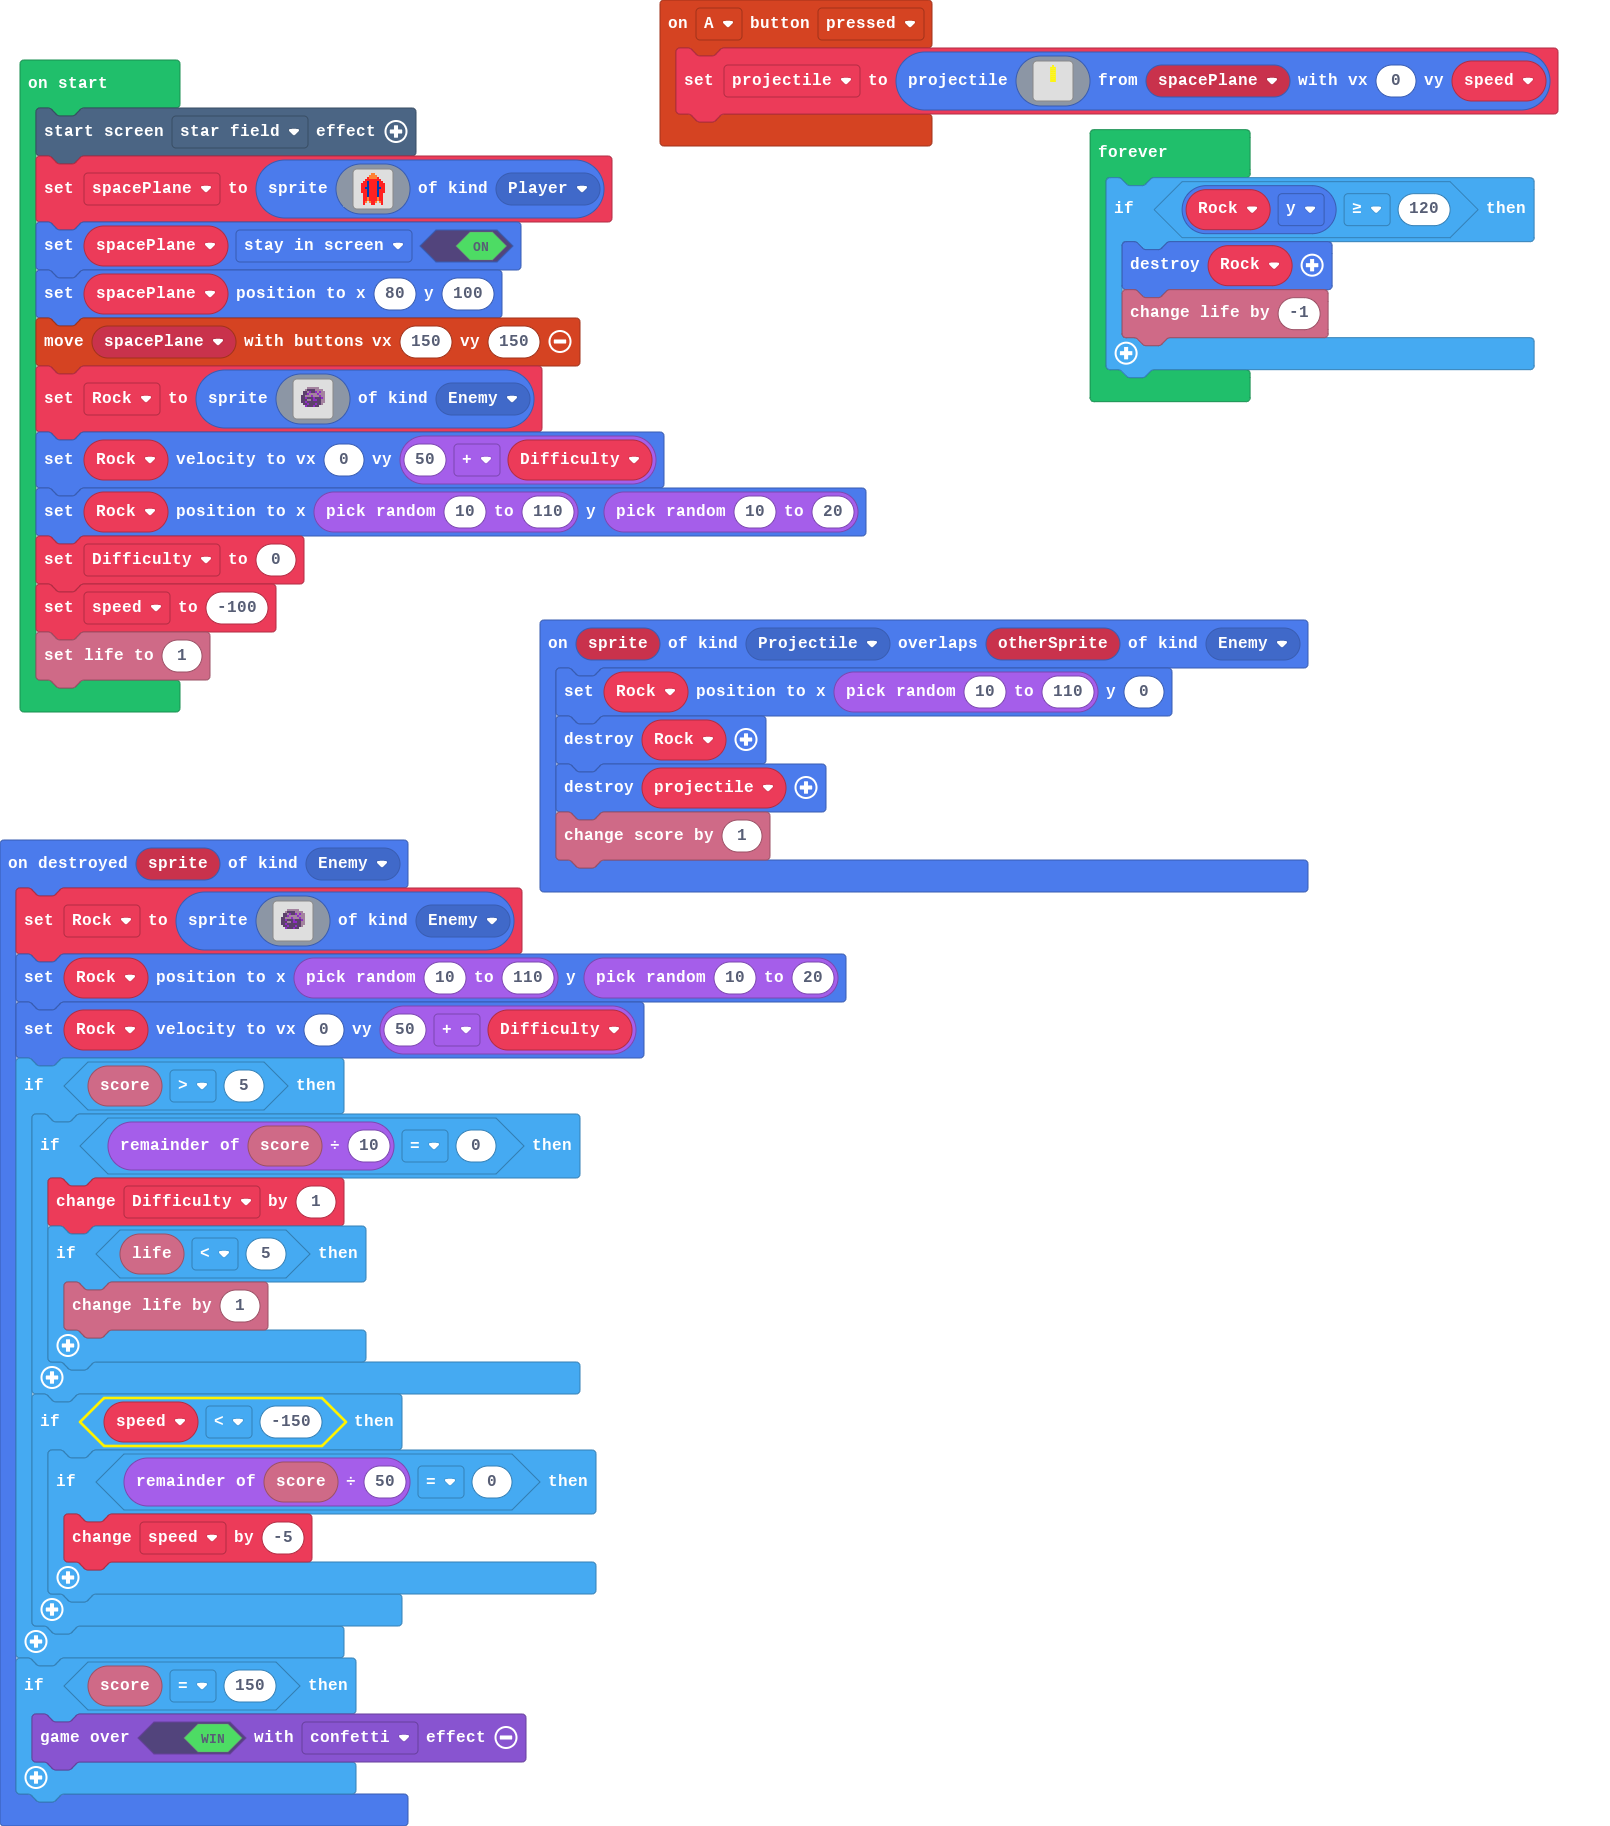
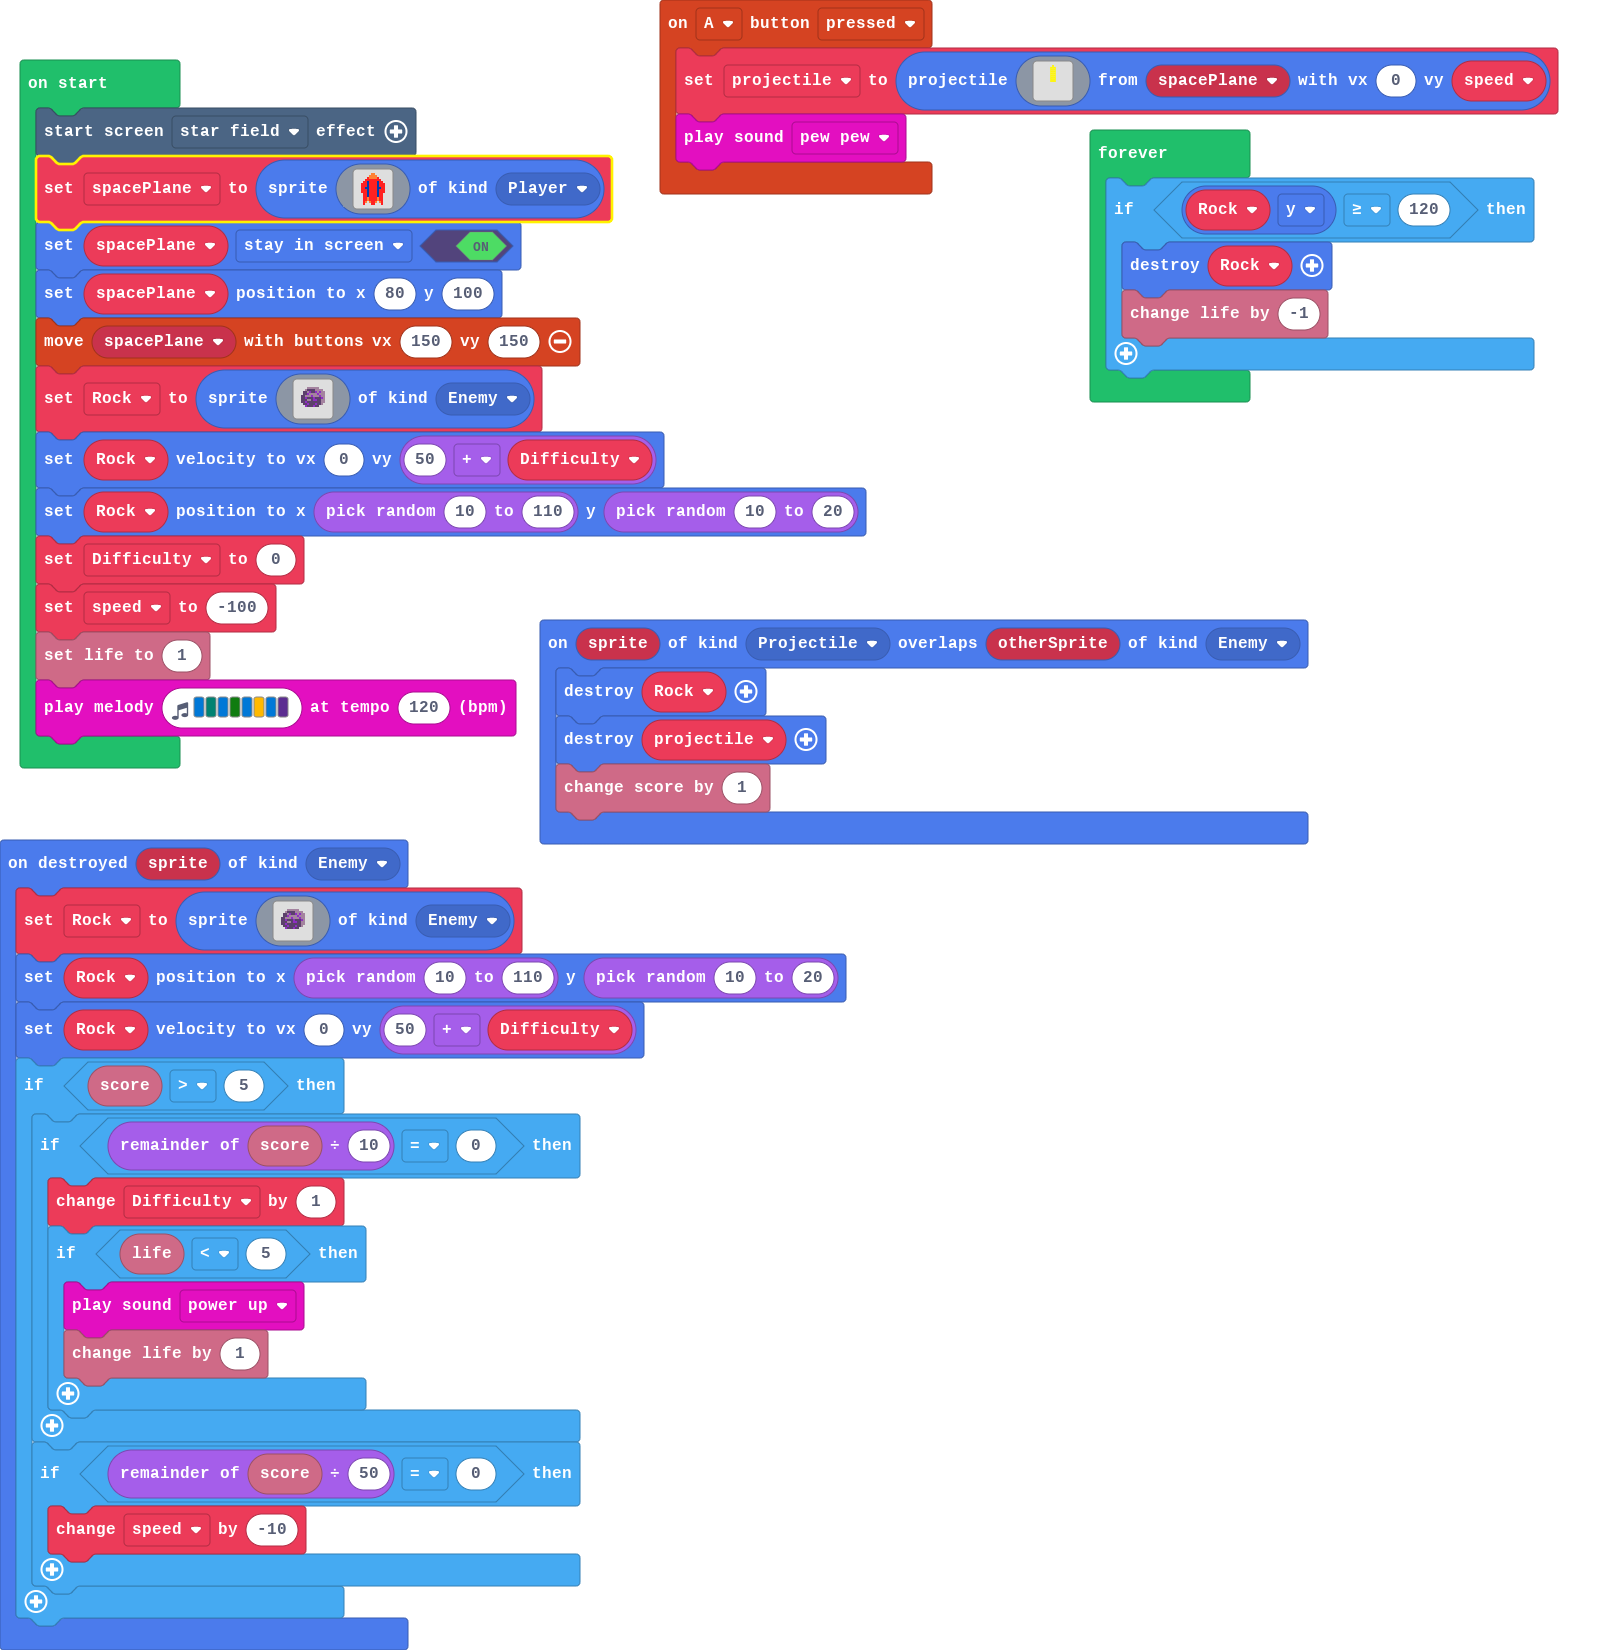
Update pxt.json, main.blocks, main.ts

diff --git a/main.ts b/main.ts
@@ -1,44 +1,43 @@
-controller.A.onEvent(ControllerButtonEvent.Pressed, function on_a_pressed() {
-    
+controller.A.onEvent(ControllerButtonEvent.Pressed, function () {
     projectile = sprites.createProjectileFromSprite(img`
-            . . . . . . . . 5 . . . . . . . . 
-                    . . . . . . . 5 5 5 . . . . . . . 
-                    . . . . . . . 5 5 5 . . . . . . . 
-                    . . . . . . . 5 5 5 . . . . . . . 
-                    . . . . . . . 5 5 5 . . . . . . . 
-                    . . . . . . . 5 5 5 . . . . . . . 
-                    . . . . . . . 5 5 5 . . . . . . . 
-                    . . . . . . . 5 5 5 . . . . . . . 
-                    . . . . . . . 5 5 5 . . . . . . . 
-                    . . . . . . . . . . . . . . . . . 
-                    . . . . . . . . . . . . . . . . . 
-                    . . . . . . . . . . . . . . . . . 
-                    . . . . . . . . . . . . . . . . . 
-                    . . . . . . . . . . . . . . . . . 
-                    . . . . . . . . . . . . . . . . . 
-                    . . . . . . . . . . . . . . . . . 
-                    . . . . . . . . . . . . . . . . .
+        . . . . . . . . 5 . . . . . . . . 
+        . . . . . . . 5 5 5 . . . . . . . 
+        . . . . . . . 5 5 5 . . . . . . . 
+        . . . . . . . 5 5 5 . . . . . . . 
+        . . . . . . . 5 5 5 . . . . . . . 
+        . . . . . . . 5 5 5 . . . . . . . 
+        . . . . . . . 5 5 5 . . . . . . . 
+        . . . . . . . 5 5 5 . . . . . . . 
+        . . . . . . . 5 5 5 . . . . . . . 
+        . . . . . . . . . . . . . . . . . 
+        . . . . . . . . . . . . . . . . . 
+        . . . . . . . . . . . . . . . . . 
+        . . . . . . . . . . . . . . . . . 
+        . . . . . . . . . . . . . . . . . 
+        . . . . . . . . . . . . . . . . . 
+        . . . . . . . . . . . . . . . . . 
+        . . . . . . . . . . . . . . . . . 
         `, spacePlane, 0, speed)
+    music.pewPew.play()
 })
-sprites.onDestroyed(SpriteKind.Enemy, function on_on_destroyed(sprite: Sprite) {
-    
+sprites.onDestroyed(SpriteKind.Enemy, function (sprite) {
     Rock = sprites.create(img`
-            . . . . . . . . . . . . . . . . 
-                    . . . . . . . . . . . . . . . . 
-                    . . . . . b b b b b b . . . . . 
-                    . . . . b c c c c b b b b . . . 
-                    . . . c c b a c c a b a b b . . 
-                    . . . c c a b b b b a b b b . . 
-                    . . c c b b b a b b b a b b . . 
-                    . . c c a c c c a c c c a b . . 
-                    . . c c c b b c a a c c b b . . 
-                    . . c c a c c c c c c c b b . . 
-                    . . . c c a c c c a c c b . . . 
-                    . . . . a c c c a c c . . . . . 
-                    . . . . . . . . . . . . . . . . 
-                    . . . . . . . . . . . . . . . . 
-                    . . . . . . . . . . . . . . . . 
-                    . . . . . . . . . . . . . . . .
+        . . . . . . . . . . . . . . . . 
+        . . . . . . . . . . . . . . . . 
+        . . . . . b b b b b b . . . . . 
+        . . . . b c c c c b b b b . . . 
+        . . . c c b a c c a b a b b . . 
+        . . . c c a b b b b a b b b . . 
+        . . c c b b b a b b b a b b . . 
+        . . c c a c c c a c c c a b . . 
+        . . c c c b b c a a c c b b . . 
+        . . c c a c c c c c c c b b . . 
+        . . . c c a c c c a c c b . . . 
+        . . . . a c c c a c c . . . . . 
+        . . . . . . . . . . . . . . . . 
+        . . . . . . . . . . . . . . . . 
+        . . . . . . . . . . . . . . . . 
+        . . . . . . . . . . . . . . . . 
         `, SpriteKind.Enemy)
     Rock.setPosition(randint(10, 110), randint(10, 20))
     Rock.setVelocity(0, 50 + Difficulty)
@@ -46,85 +45,74 @@ sprites.onDestroyed(SpriteKind.Enemy, function on_on_destroyed(sprite: Sprite) {
         if (info.score() % 10 == 0) {
             Difficulty += 1
             if (info.life() < 5) {
+                music.powerUp.play()
                 info.changeLifeBy(1)
             }
-            
         }
-        
-        if (speed < -150) {
-            if (info.score() % 50 == 0) {
-                speed += -5
-            }
-            
+        if (info.score() % 50 == 0) {
+            speed += -10
         }
-        
     }
-    
-    if (info.score() == 150) {
-        game.over(true, effects.confetti)
-    }
-    
 })
-sprites.onOverlap(SpriteKind.Projectile, SpriteKind.Enemy, function on_on_overlap(sprite: Sprite, otherSprite: Sprite) {
-    Rock.setPosition(randint(10, 110), 0)
+sprites.onOverlap(SpriteKind.Projectile, SpriteKind.Enemy, function (sprite, otherSprite) {
     Rock.destroy()
     projectile.destroy()
     info.changeScoreBy(1)
 })
-let projectile : Sprite = null
+let projectile: Sprite = null
 let speed = 0
 let Difficulty = 0
-let Rock : Sprite = null
-let spacePlane : Sprite = null
+let Rock: Sprite = null
+let spacePlane: Sprite = null
 effects.starField.startScreenEffect()
 spacePlane = sprites.create(img`
-        . . . . . . . 4 4 . . . . . . . 
-            . . . . . . 4 4 4 4 . . . . . . 
-            . . . . . 2 4 4 4 4 2 . . . . . 
-            . . . . 2 2 2 2 2 2 2 2 . . . . 
-            . . . 2 2 8 2 2 2 2 8 2 2 . . . 
-            . . 2 2 2 8 2 2 2 2 8 2 2 2 . . 
-            . . 2 2 2 8 2 2 2 2 8 2 2 2 . . 
-            . . 2 2 8 8 2 2 2 2 8 8 2 2 . . 
-            . . 2 2 2 8 2 2 2 2 8 2 2 2 . . 
-            . . 2 2 2 8 2 2 2 2 8 2 2 2 . . 
-            . . . 2 2 8 2 2 2 2 8 2 2 . . . 
-            . . . 2 2 8 2 2 2 2 8 2 2 . . . 
-            . . . 2 2 4 2 2 2 2 4 2 2 . . . 
-            . . . 2 2 4 2 2 2 2 4 2 2 . . . 
-            . . . 2 4 . 4 2 2 4 . 4 2 . . . 
-            . . . 2 . . . 2 2 . . . 2 . . .
+    . . . . . . . 4 4 . . . . . . . 
+    . . . . . . 4 4 4 4 . . . . . . 
+    . . . . . 2 4 4 4 4 2 . . . . . 
+    . . . . 2 2 2 2 2 2 2 2 . . . . 
+    . . . 2 2 8 2 2 2 2 8 2 2 . . . 
+    . . 2 2 2 8 2 2 2 2 8 2 2 2 . . 
+    . . 2 2 2 8 2 2 2 2 8 2 2 2 . . 
+    . . 2 2 8 8 2 2 2 2 8 8 2 2 . . 
+    . . 2 2 2 8 2 2 2 2 8 2 2 2 . . 
+    . . 2 2 2 8 2 2 2 2 8 2 2 2 . . 
+    . . . 2 2 8 2 2 2 2 8 2 2 . . . 
+    . . . 2 2 8 2 2 2 2 8 2 2 . . . 
+    . . . 2 2 4 2 2 2 2 4 2 2 . . . 
+    . . . 2 2 4 2 2 2 2 4 2 2 . . . 
+    . . . 2 4 . 4 2 2 4 . 4 2 . . . 
+    . . . 2 . . . 2 2 . . . 2 . . . 
     `, SpriteKind.Player)
 spacePlane.setFlag(SpriteFlag.StayInScreen, true)
 spacePlane.setPosition(80, 100)
 controller.moveSprite(spacePlane, 150, 150)
 Rock = sprites.create(img`
-        . . . . . . . . . . . . . . . . 
-            . . . . . . . . . . . . . . . . 
-            . . . . . b b b b b b . . . . . 
-            . . . . b c c c c b b b b . . . 
-            . . . c c b a c c a b a b b . . 
-            . . . c c a b b b b a b b b . . 
-            . . c c b b b a b b b a b b . . 
-            . . c c a c c c a c c c a b . . 
-            . . c c c b b c a a c c b b . . 
-            . . c c a c c c c c c c b b . . 
-            . . . c c a c c c a c c b . . . 
-            . . . . a c c c a c c . . . . . 
-            . . . . . . . . . . . . . . . . 
-            . . . . . . . . . . . . . . . . 
-            . . . . . . . . . . . . . . . . 
-            . . . . . . . . . . . . . . . .
+    . . . . . . . . . . . . . . . . 
+    . . . . . . . . . . . . . . . . 
+    . . . . . b b b b b b . . . . . 
+    . . . . b c c c c b b b b . . . 
+    . . . c c b a c c a b a b b . . 
+    . . . c c a b b b b a b b b . . 
+    . . c c b b b a b b b a b b . . 
+    . . c c a c c c a c c c a b . . 
+    . . c c c b b c a a c c b b . . 
+    . . c c a c c c c c c c b b . . 
+    . . . c c a c c c a c c b . . . 
+    . . . . a c c c a c c . . . . . 
+    . . . . . . . . . . . . . . . . 
+    . . . . . . . . . . . . . . . . 
+    . . . . . . . . . . . . . . . . 
+    . . . . . . . . . . . . . . . . 
     `, SpriteKind.Enemy)
 Rock.setVelocity(0, 50 + Difficulty)
 Rock.setPosition(randint(10, 110), randint(10, 20))
 Difficulty = 0
 speed = -100
 info.setLife(1)
-forever(function on_forever() {
+music.playMelody("E F E G E A E D ", 120)
+forever(function () {
     if (Rock.y >= 120) {
         Rock.destroy()
         info.changeLifeBy(-1)
     }
-    
 })
